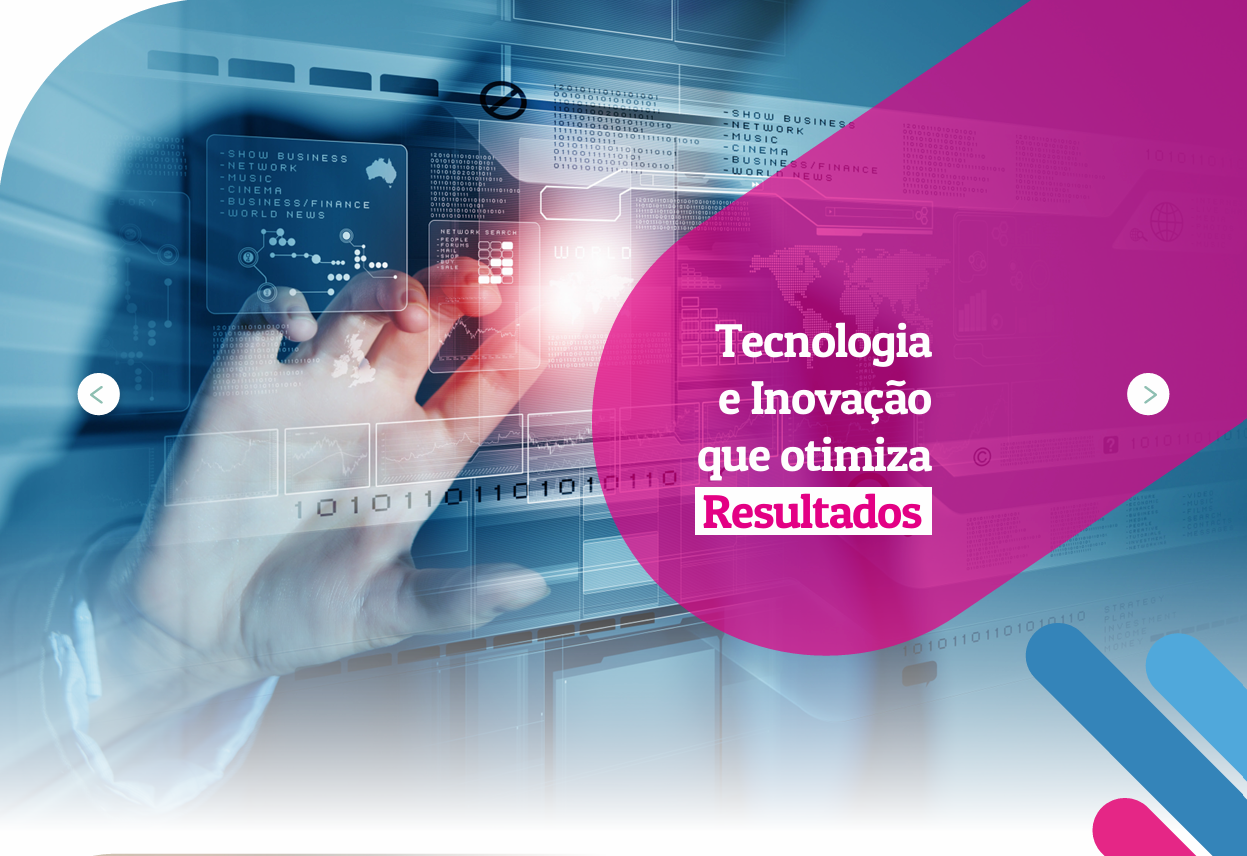
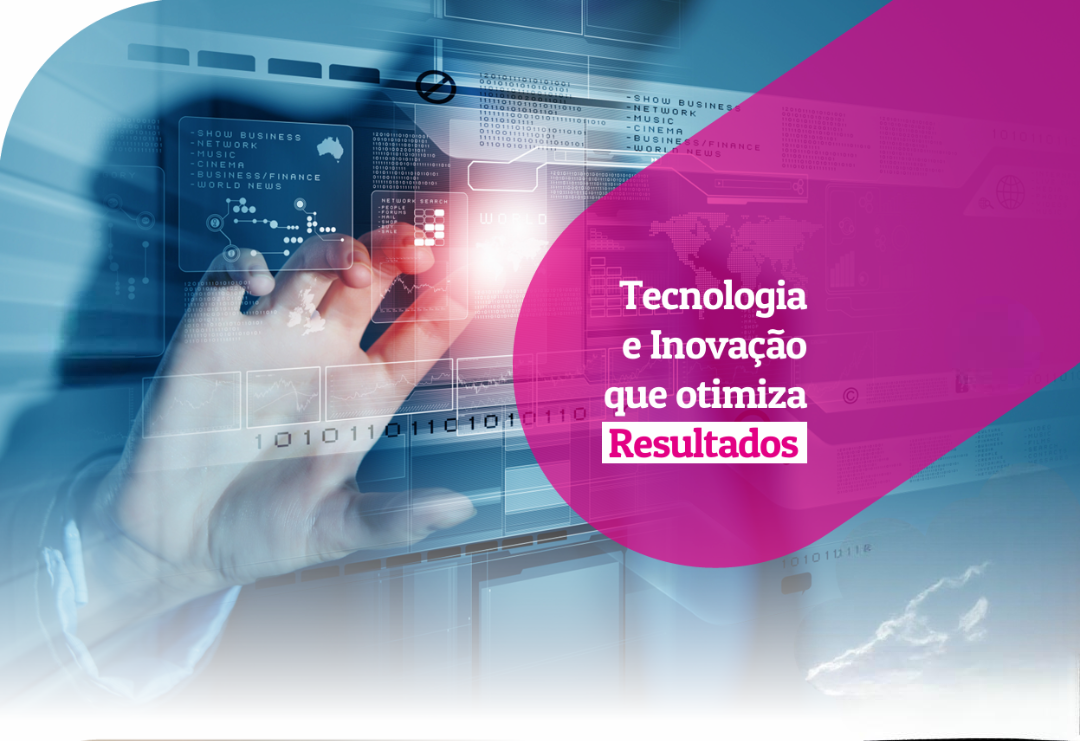
bg update

diff --git a/RELATORIO_SEGURANCA_RESPONSIVIDADE.md b/RELATORIO_SEGURANCA_RESPONSIVIDADE.md
@@ -1,0 +1,285 @@
+# Relatório de Análise - Site Cairo TI
+## Segurança e Responsividade
+
+**Data:** 07/06/2026  
+**Projeto:** Landing Page Cairo TI  
+**Versão Next.js:** 16.2.7  
+**React:** 19.2.4
+
+---
+
+## 📊 Resumo Executivo
+
+O site Cairo TI foi analisado quanto à segurança e responsividade. O projeto demonstra uma boa base técnica com Next.js moderno, TypeScript e Tailwind CSS, porém apresenta algumas vulnerabilidades de segurança que precisam de atenção.
+
+**Status Geral:** ⚠ **RECOMENDAÇÕES PENDENTES**
+
+---
+
+## 🔒 ANÁLISE DE SEGURANÇA
+
+### 🔴 Vulnerabilidades Encontradas
+
+#### 1. Vulnerabilidade no PostCSS (MODERATA)
+- **ID:** GHSA-qx2v-qp2m-jg93
+- **Tipo:** XSS via Unescaped `</style>` in CSS Stringify Output
+- **CWE:** CWE-79 (Cross-Site Scripting)
+- **CVSS Score:** 6.1 (MODERATE)
+- **Impacto:** PostCSS < 8.5.10 (versão atual: 8.4.31)
+- **Componente Afetado:** `next@16.2.7` depende de `postcss@8.4.31`
+
+**Recomendação:**
+```bash
+# Atualizar dependências (pode causar breaking changes)
+npm audit fix --force
+# OU aguardar próxima versão do Next.js com PostCSS atualizado
+```
+
+#### 2. Formulário de Contato Sem Validação Backend
+- **Local:** `src/components/sections/Contact.tsx`
+- **Problema:** Formulário HTML sem validação backend aparente
+- **Riscos:**
+  - Spam
+  - Injeção de dados maliciosos
+  - Falta de sanitização de entrada
+
+**Recomendação:**
+```typescript
+// Adicionar validação frontend mais robusta
+// Implementar API route para processar formulário
+// Adicionar rate limiting
+// Implementar CSRF protection
+// Sanitizar dados antes do envio
+```
+
+#### 3. Links Placeholder em Redes Sociais
+- **Local:** `Navbar.tsx`, `Footer.tsx`
+- **Problema:** 17 links usando `href="#"`
+- **Risco:** Links quebrados afetam UX e SEO
+
+**Recomendação:**
+```typescript
+// Substituir por URLs reais das redes sociais
+const socialLinks = {
+  linkedin: "https://linkedin.com/company/cairo-ti",
+  instagram: "https://instagram.com/cairo_tecnologia",
+  facebook: "https://facebook.com/cairo.ti",
+  youtube: "https://youtube.com/@cairoTI"
+}
+```
+
+#### 4. Iframe Google Maps Sem Sandbox
+- **Local:** `src/components/sections/Location.tsx`
+- **Problema:** Iframe sem atributos de segurança
+
+**Recomendação:**
+```tsx
+<iframe 
+  // ... outras props
+  sandbox="allow-scripts allow-same-origin allow-presentation"
+  referrerPolicy="no-referrer-when-downgrade"
+/>
+```
+
+### ✅ Pontos Positivos de Segurança
+
+1. **TypeScript Configurado** - Reduz vulnerabilidades de tipo
+2. **ESLint Ativo** - Com regras Core Web Vitals
+3. **Next.js 16.2.7** - Versão moderna com proteções内置
+4. **Next/Image** - Otimização automática de imagens
+5. **Sem Uso de eval() ou Function()** - Código seguro
+6. **Sem Inline dangerouslySetInnerHTML** - XSS prevenido
+
+---
+
+## 📱 ANÁLISE DE RESPONSIVIDADE
+
+### ✅ Pontos Fortes
+
+#### 1. Sistema de Grid e Breakpoints
+- **Uso consistente de Tailwind CSS**
+- **Breakpoints configurados:**
+  - Mobile First: base (0px+)
+  - `md:` (768px+)
+  - `lg:` (1024px+)
+  - `xl:` (1280px+)
+
+#### 2. Navbar Responsiva
+```typescript
+// Menu mobile animado com Framer Motion
+<AnimatePresence>
+  {isMobileMenuOpen && (
+    <motion.div
+      initial={{ opacity: 0, height: 0 }}
+      animate={{ opacity: 1, height: 'auto' }}
+      exit={{ opacity: 0, height: 0 }}
+    />
+  )}
+</AnimatePresence>
+```
+
+#### 3. Swiper.js com Breakpoints
+```typescript
+breakpoints={{
+  640: { slidesPerView: 2, spaceBetween: 30 },
+  768: { slidesPerView: 3, spaceBetween: 40 },
+ 1024: { slidesPerView: 4, spaceBetween: 50 },
+}}
+```
+
+#### 4. Layout Centralizado
+- `max-w-[1200px] mx-auto px-4`
+- Responsivo em todas as seções
+- Padding adequado em mobile
+
+#### 5. Imagens Otimizadas
+- Next.js Image component
+- `priority={true}` para LCP
+- Responsividade nativa
+
+### ⚠ Pontos de Melhoria
+
+#### 1. Overflow em Algumas Seções
+```css
+/* Hero e About usam overflow-hidden */
+overflow-hidden /* Pode cortar conteúdo em mobile */
+```
+
+**Recomendação:**
+```css
+/* Usar overflow-x-hidden apenas */
+overflow-x-hidden
+/* Remover ou ajustar overflow-y */
+```
+
+#### 2. Posicionamento Absoluto
+- Pílulas decorativas podem se sobrepor em telas pequenas
+- `absolute -top-32 -left-16` em `Contact.tsx`
+
+**Recomendação:**
+```css
+/* Ajustar para mobile */
+@media (max-width: 768px) {
+  .decorative-pill {
+    position: static;
+    margin: 1rem;
+  }
+}
+```
+
+#### 3. Mapa Google Iframe
+- Altura fixa `h-[350px] lg:h-[450px]`
+
+**Sugestão:**
+```css
+/* Considerar altura relativa */
+h-[40vh] lg:h-[50vh]
+```
+
+---
+
+## 📋 Checklist de Responsividade
+
+| Dispositivo | Navbar | Hero | About | Soluções | FAQ | Mapa | Contato |
+|------------|--------|------|-------|----------|-----|------|---------|
+| Mobile (320px+) | ✅ Menu animado | ✅ Responsivo | ✅ Stack | ✅ 1 col | ✅ 1 slide | ✅ Responsivo | ✅ Stack |
+| Tablet (768px+) | ✅ Menu desktop | ✅ Responsivo | ✅ 2 col | ✅ 3 col | ✅ 2 slides | ✅ Responsivo | ✅ 2 col |
+| Desktop (1024px+) | ✅ Menu completo | ✅ Otimizado | ✅ 2 col | ✅ 3 col | ✅ 4 slides | ✅ Responsivo | ✅ 2 col |
+| XL (1280px+) | ✅ Centralizado | ✅ Otimizado | ✅ Otimizado | ✅ 3 col | ✅ 4 slides | ✅ Responsivo | ✅ Otimizado |
+
+---
+
+## 🎯 Recomendações Prioritárias
+
+### 🔥 ALTA PRIORIDADE
+
+1. **Atualizar PostCSS/Next.js** após lançamento de versão segura
+2. **Implementar API route** para formulário de contato
+3. **Adicionar validação** no formulário (frontend + backend)
+
+### 📡 MÉDIA PRIORIDADE
+
+4. **Substituir links placeholder** por URLs reais
+5. **Adicionar sandbox** ao iframe do Google Maps
+6. **Testar em dispositivos reais** (iOS/Android)
+
+### 📝 BAIXA PRIORIDADE
+
+7. **Ajustar overflow** em seções com posicionamento absoluto
+8. **Adicionar meta tags** de segurança
+9. **Implementar PWA** para melhor UX mobile
+
+---
+
+## 🛡 Sugestão de Headers de Segurança
+
+```typescript
+// next.config.ts
+const nextConfig: NextConfig = {
+  async headers() {
+    return [
+      {
+        source: '/:path*',
+        headers: [
+          {
+            key: 'X-DNS-Prefetch-Control',
+            value: 'on'
+          },
+          {
+            key: 'Strict-Transport-Security',
+            value: 'max-age=63072000; includeSubDomains; preload'
+          },
+          {
+            key: 'X-Frame-Options',
+            value: 'SAMEORIGIN'
+          },
+          {
+            key: 'X-Content-Type-Options',
+            value: 'nosniff'
+          },
+          {
+            key: 'Referrer-Policy',
+            value: 'strict-origin-when-cross-origin'
+          },
+          {
+            key: 'Permissions-Policy',
+            value: 'camera=(self), microphone=(self), geolocation=(self)'
+          }
+        ]
+      }
+    ]
+  }
+}
+```
+
+---
+
+## 📐 Considerações Finais
+
+### Segurança: 6.5/10
+- ✅ Base sólida com Next.js + TypeScript
+- ⚠ Vulnerabilidade moderada no PostCSS
+- ❌ Formulário sem backend
+- ⚠ Falta headers de segurança
+
+### Responsividade: 8.5/10
+- ✅ Excelente uso de Tailwind CSS
+- ✅ Swiper bem configurado
+- ✅ Layout centralizado consistente
+- ⚠ Alguns ajustes finos necessários
+
+---
+
+## 🚀 Próximos Passos Sugeridos
+
+1. Executar `npm audit fix --force` (com testes adequados)
+2. Criar API route `/api/contact` para formulário
+3. Adicionar validação com Zod ou similar
+4. Implementar rate limiting
+5. Adicionar testes E2E com Playwright
+6. Testar em múltiplos dispositivos reais
+
+---
+
+**Relatório gerado por:** Claude Code  
+**Data de geração:** 07/06/2026
